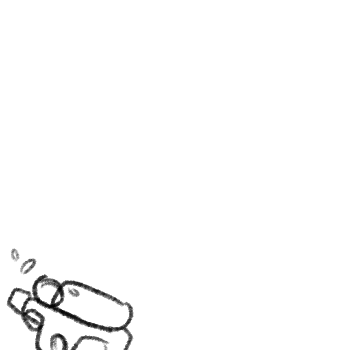
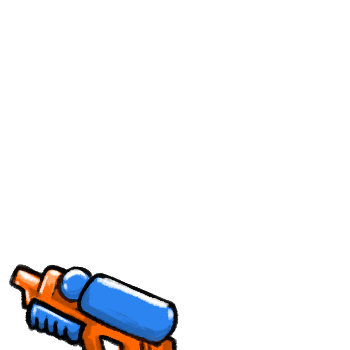
adds missing parts

Changed region(s): [[0.0, 0.7143, 0.5143, 1.0]]

diff --git a/app/images/dragoonGenerator/handItem/index.ts b/app/images/dragoonGenerator/handItem/index.ts
@@ -11,6 +11,26 @@ import handItem10 from "./10.png";
 import handItem11 from "./11.png";
 import handItem12 from "./12.png";
 import handItem13 from "./13.png";
+import handItem14 from "./14.png";
+import handItem15 from "./15.png";
+import handItem16 from "./16.png";
+import handItem18 from "./18.png";
+import handItem19 from "./19.png";
+import handItem20 from "./20.png";
+import handItem21 from "./21.png";
+import handItem22 from "./22.png";
+import handItem23 from "./23.png";
+import handItem24 from "./24.png";
+import handItem25 from "./25.png";
+import handItem26 from "./26.png";
+import handItem27 from "./27.png";
+import handItem28 from "./28.png";
+import handItem29 from "./29.png";
+import handItem30 from "./30.png";
+import handItem31 from "./31.png";
+import handItem32 from "./32.png";
+import handItem33 from "./33.png";
+import handItem34 from "./34.png";
 
 export default [
   handItem1,
@@ -26,4 +46,24 @@ export default [
   handItem11,
   handItem12,
   handItem13,
+  handItem14,
+  handItem15,
+  handItem16,
+  handItem18,
+  handItem19,
+  handItem20,
+  handItem21,
+  handItem22,
+  handItem23,
+  handItem24,
+  handItem25,
+  handItem26,
+  handItem27,
+  handItem28,
+  handItem29,
+  handItem30,
+  handItem31,
+  handItem32,
+  handItem33,
+  handItem34,
 ];

diff --git a/app/images/dragoonGenerator/moustache/index.ts b/app/images/dragoonGenerator/moustache/index.ts
@@ -24,6 +24,7 @@ import moustache23 from "./23.png";
 import moustache24 from "./24.png";
 import moustache25 from "./25.png";
 import moustache26 from "./26.png";
+import moustache27 from "./27.png";
 
 export default [
   moustache1,
@@ -52,4 +53,5 @@ export default [
   moustache24,
   moustache25,
   moustache26,
+  moustache27,
 ];

diff --git a/app/images/dragoonGenerator/eye/index.ts b/app/images/dragoonGenerator/eye/index.ts
@@ -42,6 +42,7 @@ import eye43 from "./43.png";
 import eye44 from "./44.png";
 import eye45 from "./45.png";
 import eye46 from "./46.png";
+import eye47 from "./47.png";
 
 export default [
   eye1,
@@ -88,4 +89,5 @@ export default [
   eye44,
   eye45,
   eye46,
+  eye47,
 ];
